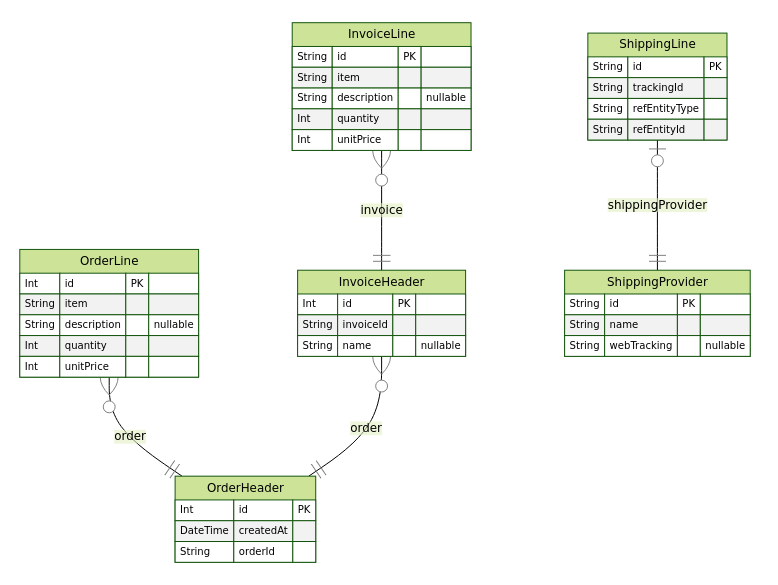
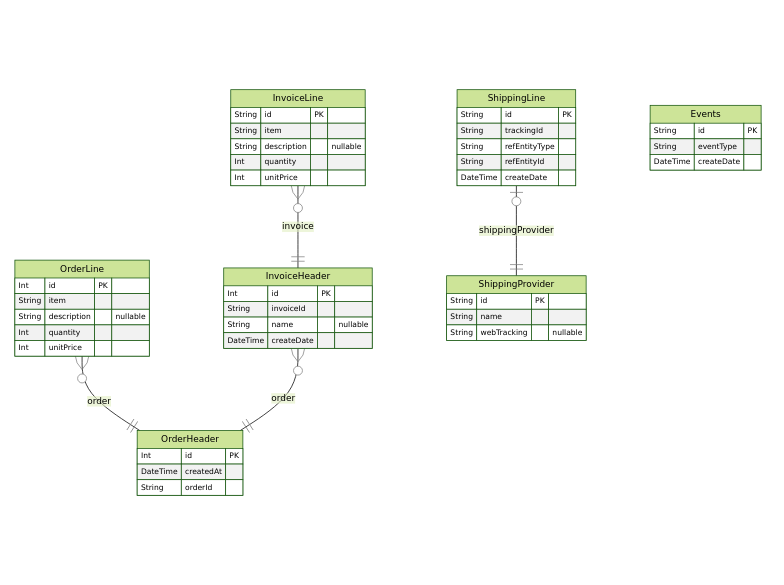
WIP

diff --git a/src/invoices/invoices.controller.ts b/src/invoices/invoices.controller.ts
@@ -3,7 +3,7 @@ import { InvoicesService } from './invoices.service';
 import { CreateInvoiceDto } from './dto/create-invoice.dto';
 import { UpdateInvoiceDto } from './dto/update-invoice.dto';
 import { ApiCreatedResponse, ApiOkResponse, ApiResponse, ApiTags } from '@nestjs/swagger';
-import { InvoiceEntity } from './entities/invoice.entity';
+import { InvoiceHeaderEntity } from './entities/invoiceHeader.entity';
 
 @Controller('invoices')
 @ApiTags('invoices')
@@ -11,7 +11,7 @@ export class InvoicesController {
   constructor(private readonly invoicesService: InvoicesService) {}
 
   @Post()
-  @ApiCreatedResponse({ type: InvoiceEntity})
+  @ApiCreatedResponse({ type: InvoiceHeaderEntity})
   create(@Body() createInvoiceDto: CreateInvoiceDto) {
     return this.invoicesService.create(createInvoiceDto);
   }
@@ -22,6 +22,7 @@ export class InvoicesController {
   }
 
   @Get(':id')
+  @ApiOkResponse({type: InvoiceHeaderEntity})
   findOne(@Param('id') id: string) {
     return this.invoicesService.findOne(+id);
   }

diff --git a/src/invoices/invoices.service.ts b/src/invoices/invoices.service.ts
@@ -1,15 +1,20 @@
 import { Injectable } from '@nestjs/common';
 import { CreateInvoiceDto } from './dto/create-invoice.dto';
 import { UpdateInvoiceDto } from './dto/update-invoice.dto';
+import { prisma } from '@prisma/client';
+import { PrismaService } from 'src/prisma/prisma.service';
 
 @Injectable()
 export class InvoicesService {
+
+  constructor(private prisma: PrismaService){};
+
   create(createInvoiceDto: CreateInvoiceDto) {
     return 'This action adds a new invoice';
   }
 
   findAll() {
-    return `This action returns all invoices`;
+    return this.prisma.invoiceHeader.findMany({});
   }
 
   findOne(id: number) {

diff --git a/src/prisma/prisma.service.spec.ts b/src/prisma/prisma.service.spec.ts
@@ -1,0 +1,18 @@
+import { Test, TestingModule } from '@nestjs/testing';
+import { PrismaService } from './prisma.service';
+
+describe('PrismaService', () => {
+  let service: PrismaService;
+
+  beforeEach(async () => {
+    const module: TestingModule = await Test.createTestingModule({
+      providers: [PrismaService],
+    }).compile();
+
+    service = module.get<PrismaService>(PrismaService);
+  });
+
+  it('should be defined', () => {
+    expect(service).toBeDefined();
+  });
+});

diff --git a/src/app.module.ts b/src/app.module.ts
@@ -2,9 +2,10 @@ import { Module } from '@nestjs/common';
 import { AppController } from './app.controller';
 import { AppService } from './app.service';
 import { InvoicesModule } from './invoices/invoices.module';
+import { PrismaModule } from './prisma/prisma.module';
 
 @Module({
-  imports: [InvoicesModule],
+  imports: [PrismaModule, InvoicesModule],
   controllers: [AppController],
   providers: [AppService],
 })

diff --git a/src/invoices/entities/invoiceHeader.entity.ts b/src/invoices/entities/invoiceHeader.entity.ts
@@ -1,0 +1,19 @@
+import { ApiProperty } from "@nestjs/swagger";
+import { Prisma, InvoiceHeader } from "@prisma/client";
+
+export class InvoiceHeaderEntity implements InvoiceHeader {
+    @ApiProperty()
+    id: number;
+  
+    @ApiProperty()
+    invoiceId: string;
+  
+    @ApiProperty()
+    orderId: string;
+  
+    @ApiProperty()
+    name: string;
+  
+    @ApiProperty()
+    createDate: Date;
+  }

diff --git a/src/prisma/prisma.module.ts b/src/prisma/prisma.module.ts
@@ -1,0 +1,9 @@
+import { Global, Module } from '@nestjs/common';
+import { PrismaService } from './prisma.service';
+
+@Global() // 👈 makes PrismaService globally available
+@Module({
+  providers: [PrismaService],
+  exports: [PrismaService], // 👈 export PrismaService for DI
+})
+export class PrismaModule {}

diff --git a/src/prisma/prisma.service.ts b/src/prisma/prisma.service.ts
@@ -1,0 +1,10 @@
+import { Injectable } from '@nestjs/common';
+import { PrismaClient } from '@prisma/client';
+
+@Injectable()
+export class PrismaService extends PrismaClient {
+  constructor() {
+    // pass PrismaClientOptions e.g. logging levels or error formatting
+    super();
+  }
+}
